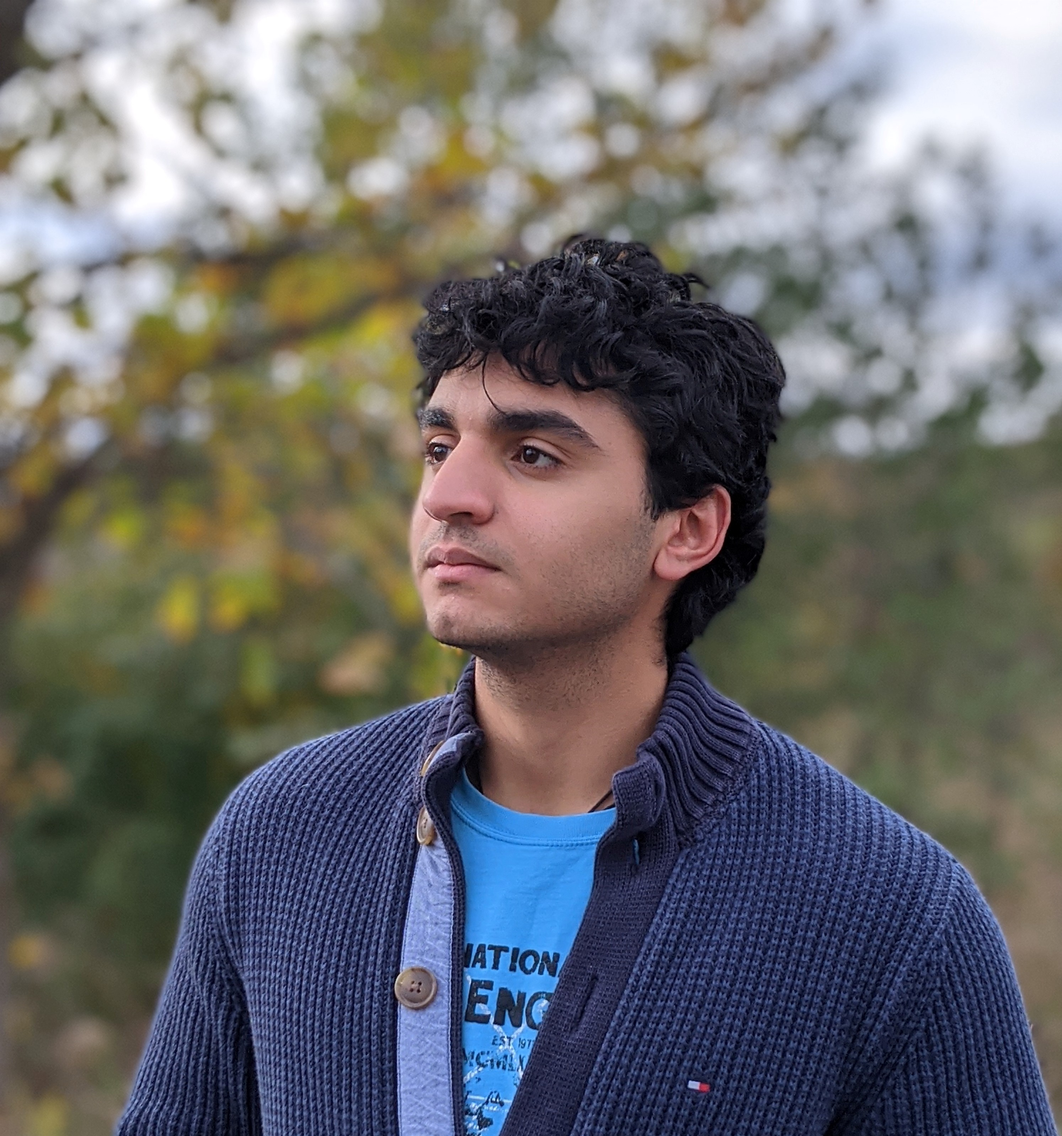
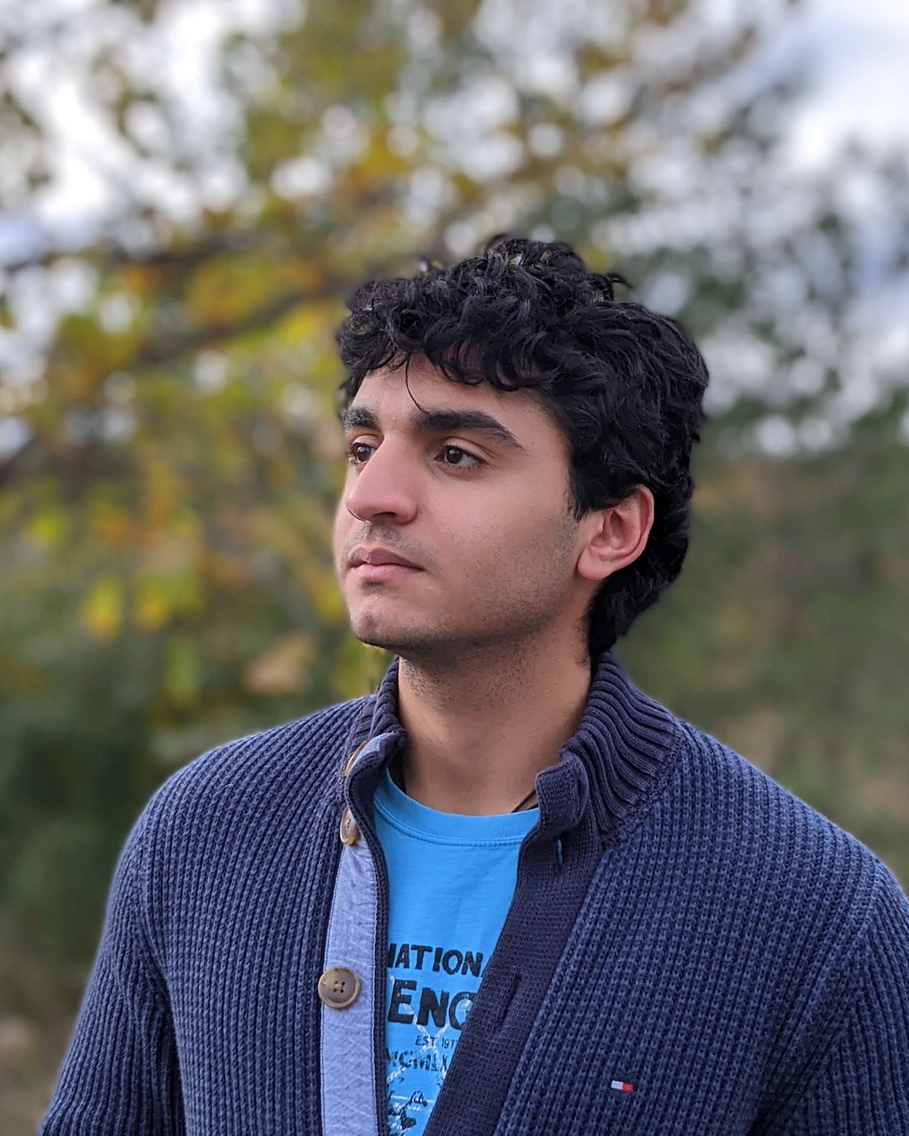
Resized images

diff --git a/Website/Aquadrone/about.html b/Website/Aquadrone/about.html
@@ -106,7 +106,7 @@
             <div class="shadow rounded">
               <img
                 src="images/home/youssef.jpg"
-                class="img-fluid rounded profile-pic"
+                class="img-fluid rounded"
                 alt="find"
               />
               <h3 class="name-tag">Youssef Nafei</h3>
